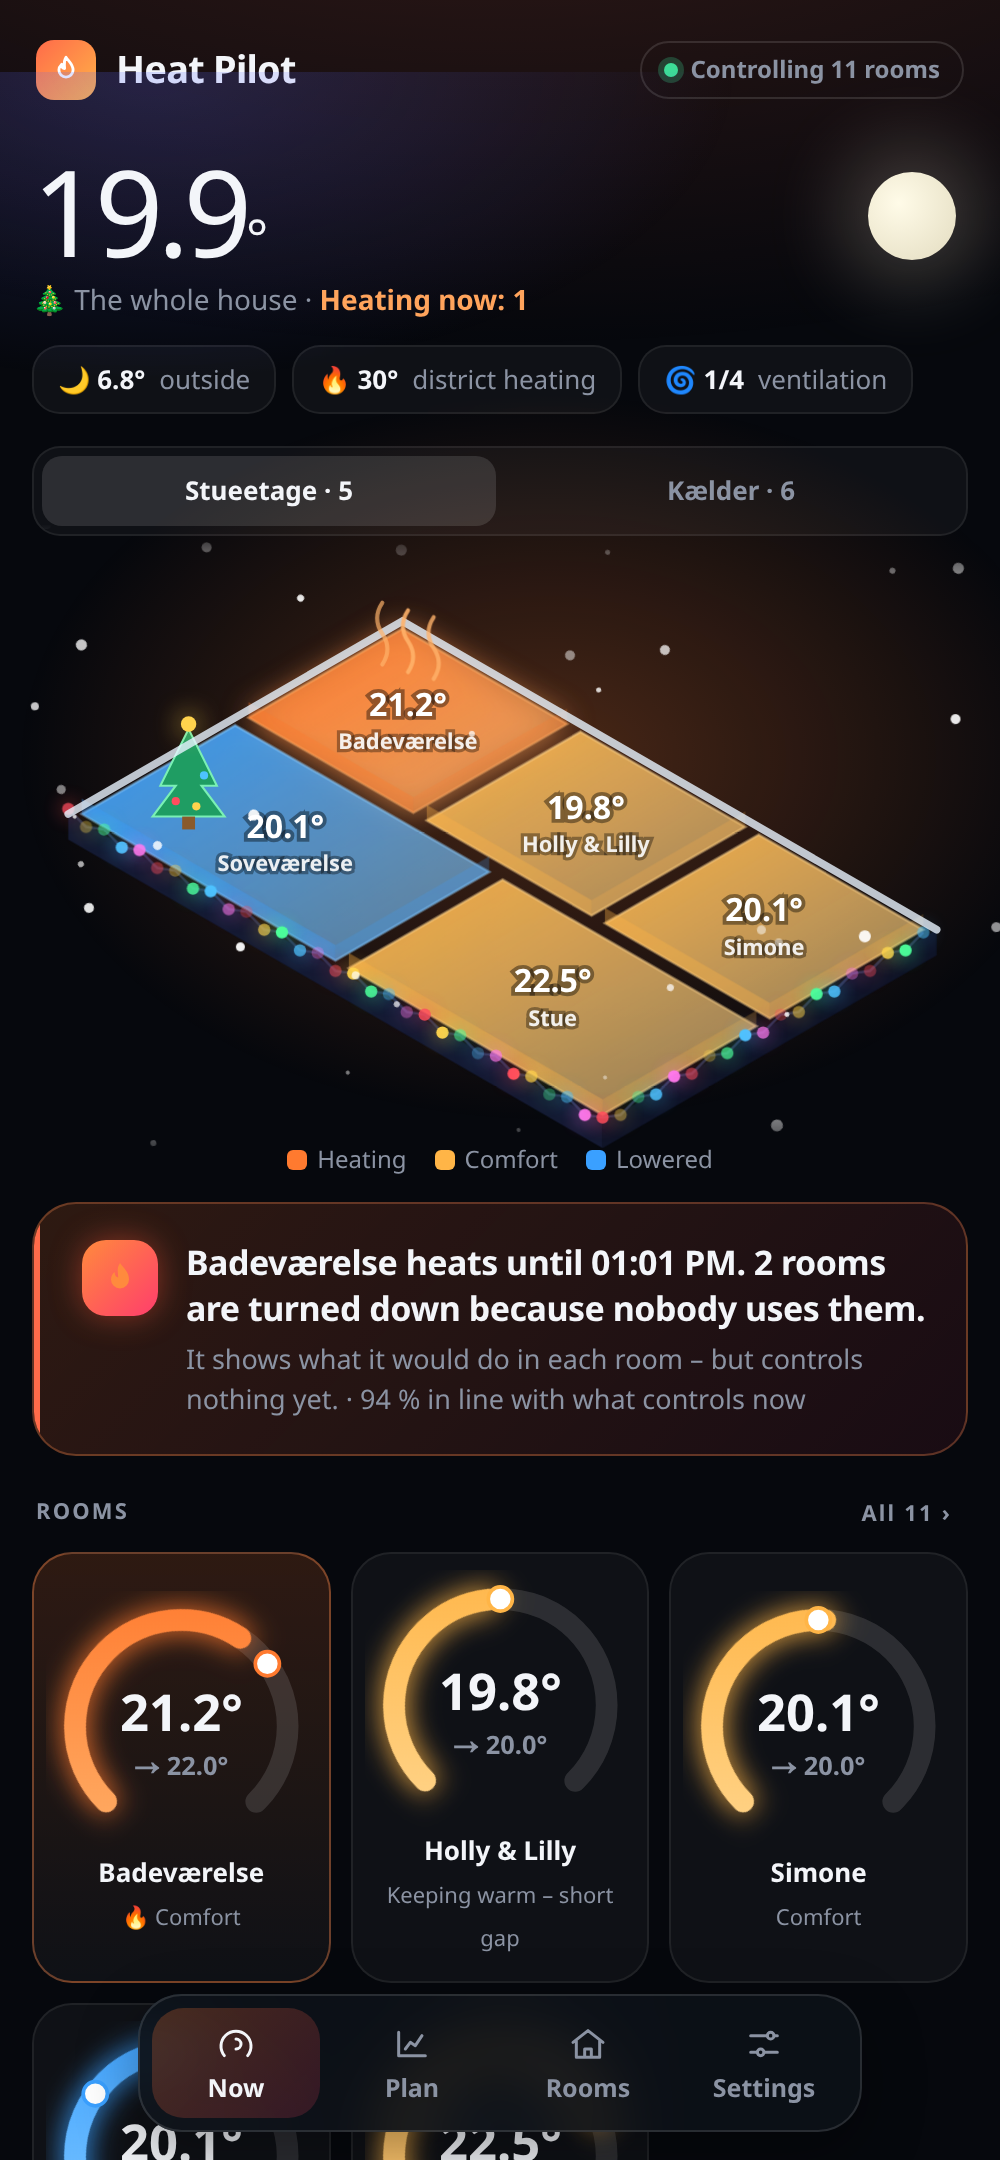
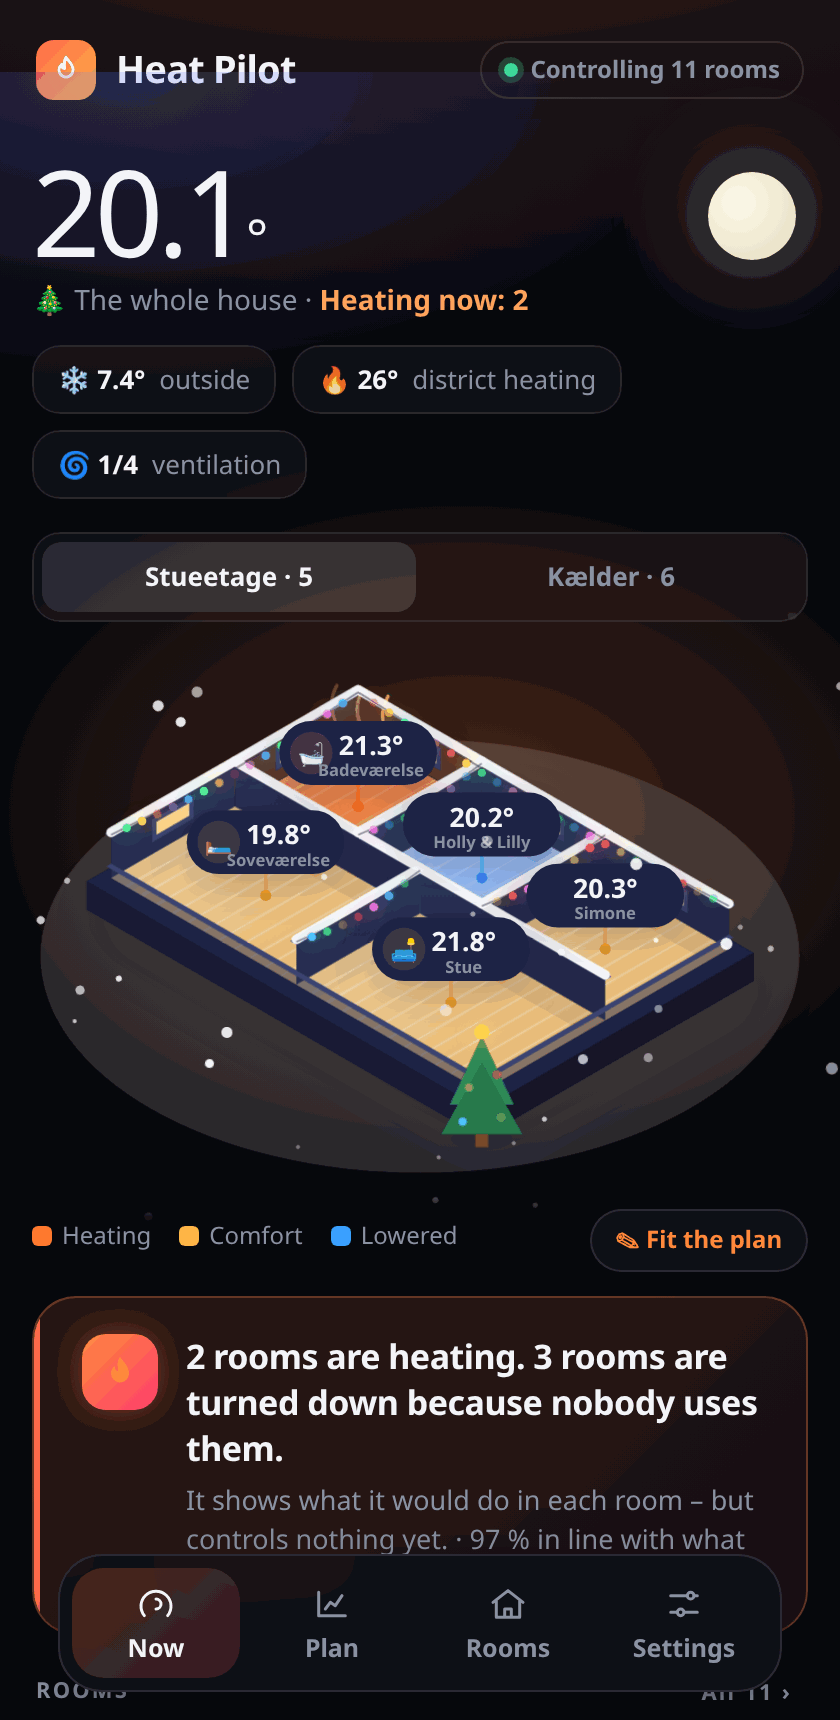
README: new pictures (the house, Christmas, Fit the plan)

diff --git a/README.md b/README.md
@@ -3,7 +3,7 @@
 **Smart heating for every room in Home Assistant – found by itself, in shadow first, as easy as it gets.**
 
 <p align="center"><img src="docs/now_dark.png" width="260" alt="Now"> <img src="docs/now_light.png" width="260" alt="Light theme"> <img src="docs/christmas.png" width="260" alt="At Christmas"></p>
-<p align="center"><img src="docs/rooms.png" width="260" alt="Rooms"></p>
+<p align="center"><img src="docs/plan.png" width="260" alt="Fit the plan"> <img src="docs/rooms.png" width="260" alt="Rooms"></p>
 
 Heat Pilot finds your rooms, thermostats, room sensors, windows, doors, motion sensors, people, ventilation and
 district heating meter by itself, learns how your home is used, and shows what it would do in each room. It
@@ -28,7 +28,8 @@ district heating meter by itself, learns how your home is used, and shows what i
 - **Warnings**: mould risk, stale air, windows left open, thermostats not responding, low batteries, rooms that
   don't get warm – in the app, and as phone messages only if you want (each kind can be turned off).
 - **Turned by hand** is respected, with an echo guard for Zigbee thermostats.
-- **The house in 3D**: every room glows in its colour (heating, comfort, lowered), floor by floor – with the real weather, night and day, the seasons and the holidays (Christmas lights, fireworks, Easter eggs …). Rooms as thermostat dials, a 48-hour chart per room, a 24-hour plan, a dashboard card and a monthly report.
+- **The house in 3D**: rooms with walls, windows and wood floors – a warm glow where it heats, a cool blue where it's lowered – floor by floor, with the real weather, night and day, the seasons and the holidays (snow on the walls, Christmas lights and a tree, fireworks, Easter eggs, a pumpkin …).
+- **Fit the plan**: drag the rooms to where they are in your home and resize them (25 cm steps, sizes in metres), add rooms without a thermostat such as the hall, and put a picture of your own floor plan faintly behind to trace it. Rooms as thermostat dials, a 48-hour chart per room, a 24-hour plan, a dashboard card and a monthly report.
 - **7 languages** (English, Danish, German, French, Dutch, Swedish, Norwegian), **°C and °F**.
 
 ## Thermostats
@@ -70,4 +71,4 @@ Then open `http://<host>:8099`. (Add `-v /path/to/ha/config:/homeassistant` to h
 ---
 
 **Dansk:** Varme i hvert rum – finder selv rum, termostater, følere, vinduer, personer, ventilation og fjernvarme,
-lærer hvordan huset bruges, og starter altid i skygge. Styring slås til rum for rum.
+lærer hvordan huset bruges, og starter altid i skygge. Styring slås til rum for rum. Huset vises i 3D med vægge, vinduer og trægulv, og med **Tilpas plan** flytter du rummene, så de passer til din egen plantegning.
